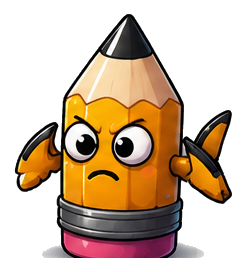
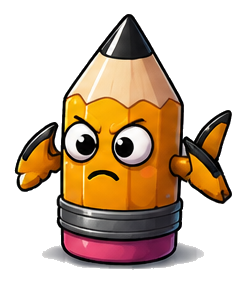
image

Changed region(s): [[0.0569, 0.0294, 0.9675, 0.9706], [0.626, 0.6471, 0.6545, 0.6765]]

diff --git a/src/phaser/monsterAssetManifest.js b/src/phaser/monsterAssetManifest.js
@@ -1,81 +1,7 @@
-export const NORMAL_MONSTER_ASSETS = {
-  skibidi_bot: {
-    key: 'monster-normal-skibidi-bot',
-    path: '/assets/monsters/normal/skibidi-bot/idle.png',
-    mirrorSafe: false,
-  },
-  bubble_tea_slime: {
-    key: 'monster-normal-bubble-tea-slime',
-    path: '/assets/monsters/normal/bubble-tea-slime/idle.png',
-    mirrorSafe: false,
-  },
-  sixtyseven_rex: {
-    key: 'monster-normal-67-rex',
-    path: '/assets/monsters/normal/67-rex/idle.png',
-    mirrorSafe: false,
-  },
-  schoolbag_golem: {
-    key: 'monster-normal-schoolbag-golem',
-    path: '/assets/monsters/normal/schoolbag-golem/idle.png',
-    mirrorSafe: false,
-  },
-  t_rex: {
-    key: 'monster-normal-t-rex',
-    path: '/assets/monsters/normal/t-rex/idle.png',
-    mirrorSafe: false,
-  },
-  tablet_wizard: {
-    key: 'monster-normal-tablet-wizard',
-    path: '/assets/monsters/normal/tablet-wizard/idle.png',
-    mirrorSafe: false,
-  },
-  pencil_shark: {
-    key: 'monster-normal-pencil-shark',
-    path: '/assets/monsters/normal/pencil-shark/idle.png',
-    mirrorSafe: false,
-  },
-  homework_troll: {
-    key: 'monster-normal-homework-troll',
-    path: '/assets/monsters/normal/homework-troll/idle.png',
-    mirrorSafe: false,
-  },
-  toilet_paper_ninja: {
-    key: 'monster-normal-toilet-paper-ninja',
-    path: '/assets/monsters/normal/toilet-paper-ninja/idle.png',
-    mirrorSafe: false,
-  },
-  crocs_goblin: {
-    key: 'monster-normal-crocs-goblin',
-    path: '/assets/monsters/normal/crocs-goblin/idle.png',
-    mirrorSafe: false,
-  },
-  iphone_warrior: {
-    key: 'monster-normal-iphone-warrior',
-    path: '/assets/monsters/normal/iphone-warrior/idle.png',
-    mirrorSafe: false,
-  },
-  lunchbox_dragon: {
-    key: 'monster-normal-lunchbox-dragon',
-    path: '/assets/monsters/normal/lunchbox-dragon/idle.png',
-    mirrorSafe: false,
-  },
-  cockroachsaurus: {
-    key: 'monster-normal-cockroachsaurus',
-    path: '/assets/monsters/normal/cockroachsaurus/idle.png',
-    mirrorSafe: false,
-  },
-  chickenzilla: {
-    key: 'monster-normal-chickenzilla',
-    path: '/assets/monsters/normal/chickenzilla/idle.png',
-    mirrorSafe: false,
-  },
-  water_bottle_beast: {
-    key: 'monster-normal-water-bottle-beast',
-    path: '/assets/monsters/normal/water-bottle-beast/idle.png',
-    mirrorSafe: false,
-  },
-};
+import { NORMAL_MONSTER_IMAGE_ASSETS, getNormalMonsterImageAsset } from '../../utils/monsterImageAssets';
+
+export const NORMAL_MONSTER_ASSETS = NORMAL_MONSTER_IMAGE_ASSETS;
 
 export function getNormalMonsterAsset(templateId) {
-  return NORMAL_MONSTER_ASSETS[templateId] ?? null;
+  return getNormalMonsterImageAsset(templateId);
 }

diff --git a/utils/monsterImageAssets.js b/utils/monsterImageAssets.js
@@ -1,0 +1,81 @@
+export const NORMAL_MONSTER_IMAGE_ASSETS = {
+  skibidi_bot: {
+    key: 'monster-normal-skibidi-bot',
+    path: '/assets/monsters/normal/skibidi-bot/idle.png',
+    mirrorSafe: false,
+  },
+  bubble_tea_slime: {
+    key: 'monster-normal-bubble-tea-slime',
+    path: '/assets/monsters/normal/bubble-tea-slime/idle.png',
+    mirrorSafe: false,
+  },
+  sixtyseven_rex: {
+    key: 'monster-normal-67-rex',
+    path: '/assets/monsters/normal/67-rex/idle.png',
+    mirrorSafe: false,
+  },
+  schoolbag_golem: {
+    key: 'monster-normal-schoolbag-golem',
+    path: '/assets/monsters/normal/schoolbag-golem/idle.png',
+    mirrorSafe: false,
+  },
+  t_rex: {
+    key: 'monster-normal-t-rex',
+    path: '/assets/monsters/normal/t-rex/idle.png',
+    mirrorSafe: false,
+  },
+  tablet_wizard: {
+    key: 'monster-normal-tablet-wizard',
+    path: '/assets/monsters/normal/tablet-wizard/idle.png',
+    mirrorSafe: false,
+  },
+  pencil_shark: {
+    key: 'monster-normal-pencil-shark',
+    path: '/assets/monsters/normal/pencil-shark/idle.png',
+    mirrorSafe: false,
+  },
+  homework_troll: {
+    key: 'monster-normal-homework-troll',
+    path: '/assets/monsters/normal/homework-troll/idle.png',
+    mirrorSafe: false,
+  },
+  toilet_paper_ninja: {
+    key: 'monster-normal-toilet-paper-ninja',
+    path: '/assets/monsters/normal/toilet-paper-ninja/idle.png',
+    mirrorSafe: false,
+  },
+  crocs_goblin: {
+    key: 'monster-normal-crocs-goblin',
+    path: '/assets/monsters/normal/crocs-goblin/idle.png',
+    mirrorSafe: false,
+  },
+  iphone_warrior: {
+    key: 'monster-normal-iphone-warrior',
+    path: '/assets/monsters/normal/iphone-warrior/idle.png',
+    mirrorSafe: false,
+  },
+  lunchbox_dragon: {
+    key: 'monster-normal-lunchbox-dragon',
+    path: '/assets/monsters/normal/lunchbox-dragon/idle.png',
+    mirrorSafe: false,
+  },
+  cockroachsaurus: {
+    key: 'monster-normal-cockroachsaurus',
+    path: '/assets/monsters/normal/cockroachsaurus/idle.png',
+    mirrorSafe: false,
+  },
+  chickenzilla: {
+    key: 'monster-normal-chickenzilla',
+    path: '/assets/monsters/normal/chickenzilla/idle.png',
+    mirrorSafe: false,
+  },
+  water_bottle_beast: {
+    key: 'monster-normal-water-bottle-beast',
+    path: '/assets/monsters/normal/water-bottle-beast/idle.png',
+    mirrorSafe: false,
+  },
+};
+
+export function getNormalMonsterImageAsset(templateId) {
+  return NORMAL_MONSTER_IMAGE_ASSETS[templateId] ?? null;
+}

diff --git a/components/MonsterPreview.js b/components/MonsterPreview.js
@@ -1,9 +1,10 @@
 import React, { useId, useMemo } from 'react';
-import { Text, View } from 'react-native';
+import { Image, Platform, Text, View } from 'react-native';
 import Svg, { Circle, Defs, Ellipse, G, Line, LinearGradient, Path, Polygon, Rect, Stop } from 'react-native-svg';
 import MonsterLayerStack from './monsters/MonsterLayerStack';
 import MonsterGearLayers from './MonsterGearLayers';
 import { ART } from '../utils/artDirection';
+import { getNormalMonsterImageAsset } from '../utils/monsterImageAssets';
 
 /** Pastel-vibrant cartoon palette */
 export const MONSTER_PALETTE = [
@@ -78,9 +79,9 @@ function BodyGrad({ children, gid, light, dark }) {
  * Whimsical SVG monster — thick cartoon outline, soft shadow, optional cosmetics & mood.
  *
  * `parts`: body, head, eyes, mouth, horn, tail, hands, legs, colorIdx, cosmetics?: string[]
- * @param {{ parts: object, size?: number, mood?: MonsterMood }} props
+ * @param {{ parts: object, size?: number, mood?: MonsterMood, counterMirror?: boolean }} props
  */
-export default function MonsterPreview({ parts, size = 200, mood = 'neutral' }) {
+export default function MonsterPreview({ parts, size = 200, mood = 'neutral', counterMirror = false }) {
   const instanceId = useId().replace(/:/g, '');
   const safe = parts && typeof parts === 'object' ? parts : null;
   const ST = 5;
@@ -100,6 +101,23 @@ export default function MonsterPreview({ parts, size = 200, mood = 'neutral' }) 
 
   if (!safe) {
     return <View style={{ width: size, height: size * 1.06, alignSelf: 'center' }} />;
+  }
+
+  const imageAsset = Platform.OS === 'web' ? getNormalMonsterImageAsset(safe.templateId) : null;
+  if (imageAsset?.path) {
+    return (
+      <View style={{ width: size, height: size * 1.06, alignSelf: 'center', justifyContent: 'center' }}>
+        <Image
+          source={{ uri: imageAsset.path }}
+          resizeMode="contain"
+          style={{
+            width: size,
+            height: size * 1.06,
+            transform: counterMirror ? [{ scaleX: -1 }] : undefined,
+          }}
+        />
+      </View>
+    );
   }
 
   const b = safe.body ?? 0;

diff --git a/utils/fighterFromOwned.js b/utils/fighterFromOwned.js
@@ -30,6 +30,7 @@ export function fighterFromOwned(owned) {
   const mergedParts = mergeMonsterParts(owned.templateId, owned.monsterParts || {});
   const parts = {
     ...mergedParts,
+    templateId: owned.templateId,
     evolutionTierIndex: st.tierIndex,
     evolutionStageKey: st.key,
     visualFormTier: visualTier,
@@ -74,6 +75,7 @@ function fighterFromLadderOwnedInMainInventory(owned, tpl) {
   const { stats: finalStats, bonuses: gearBonuses } = applyGearBonuses(built.stats, gearIds);
   const parts = {
     ...mergeLadderMonsterParts(owned.templateId, owned.monsterParts || {}),
+    templateId: owned.templateId,
     evolutionTierIndex: st.tierIndex,
     evolutionStageKey: st.key,
     visualFormTier: visualTier,

diff --git a/components/AnimatedMonster.js b/components/AnimatedMonster.js
@@ -297,7 +297,7 @@ export default function AnimatedMonster({
         ]}
       >
         <Animated.View style={[styles.fadeDodge, { opacity: dodgeOp }]}>
-          <MonsterPreview parts={parts} size={scaledSize} mood={mood} />
+          <MonsterPreview parts={parts} size={scaledSize} mood={mood} counterMirror={side === 'right'} />
         </Animated.View>
       </Animated.View>
     </View>

diff --git a/utils/gameStorage.js b/utils/gameStorage.js
@@ -134,6 +134,7 @@ export function mergeMonsterParts(templateId, overrides = {}) {
   const t = getMonsterTemplate(templateId);
   const base = t?.visualProfile?.defaultParts ? { ...t.visualProfile.defaultParts } : {};
   const merged = {
+    templateId,
     species: 0,
     body: 0,
     head: 0,
